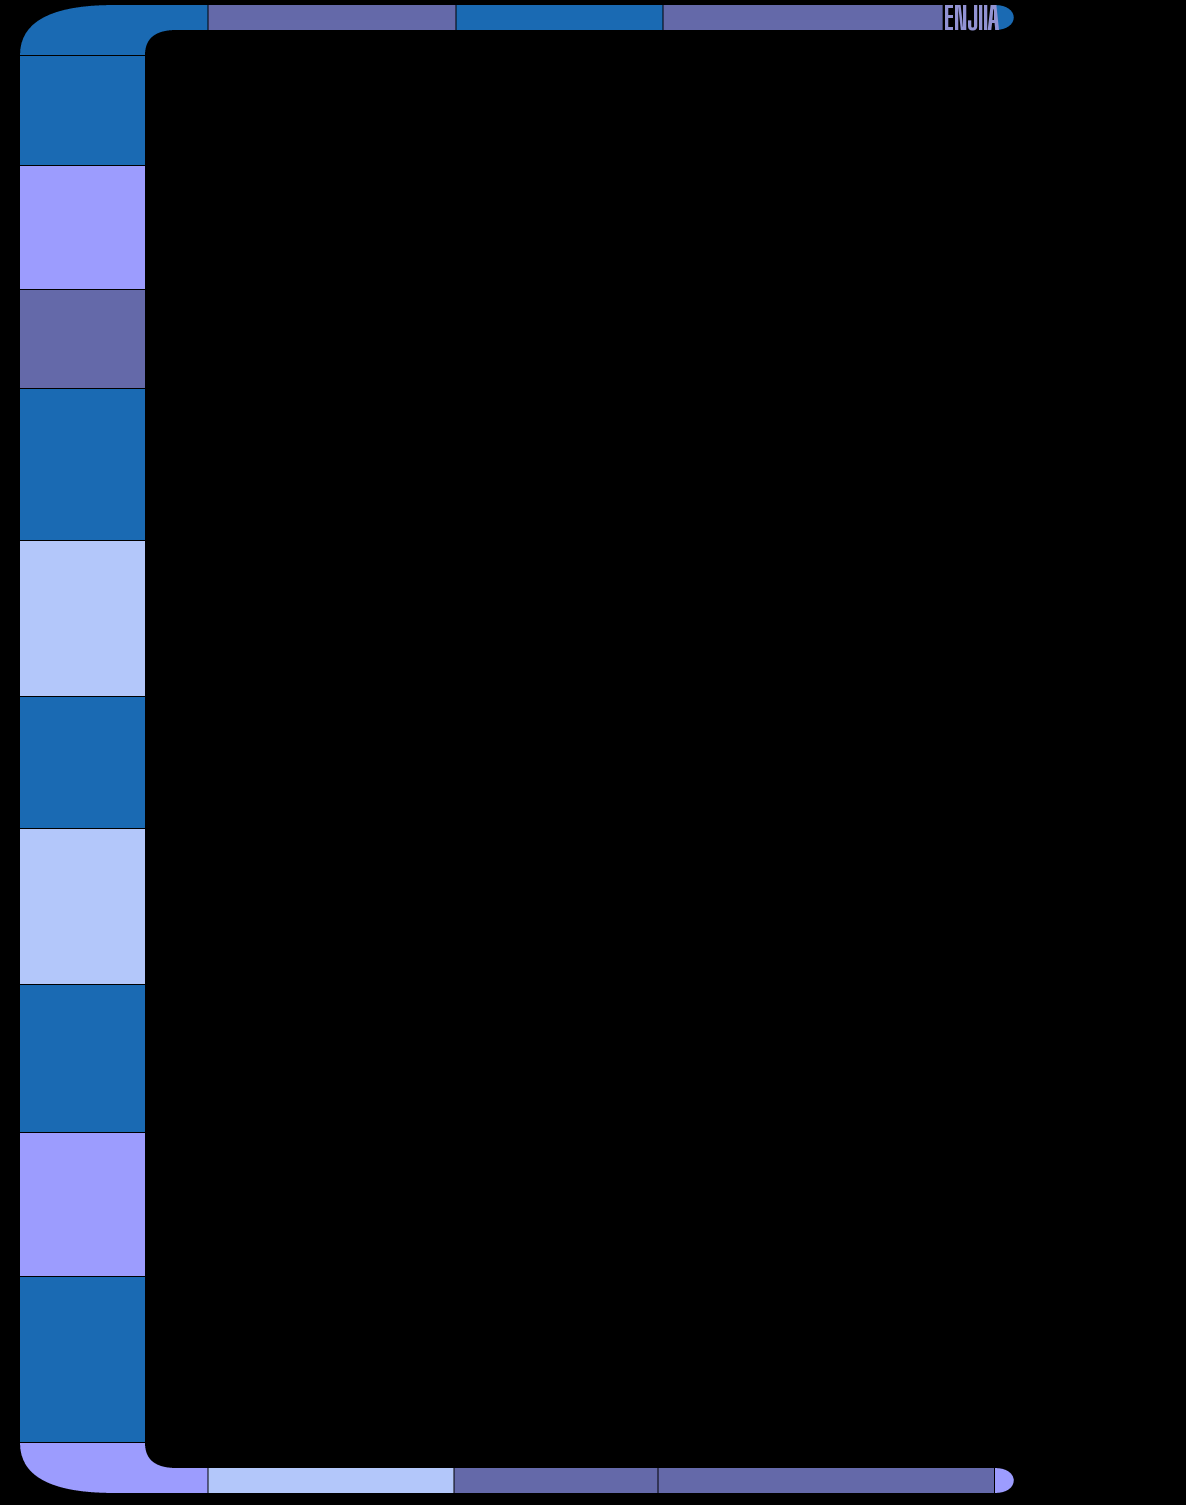
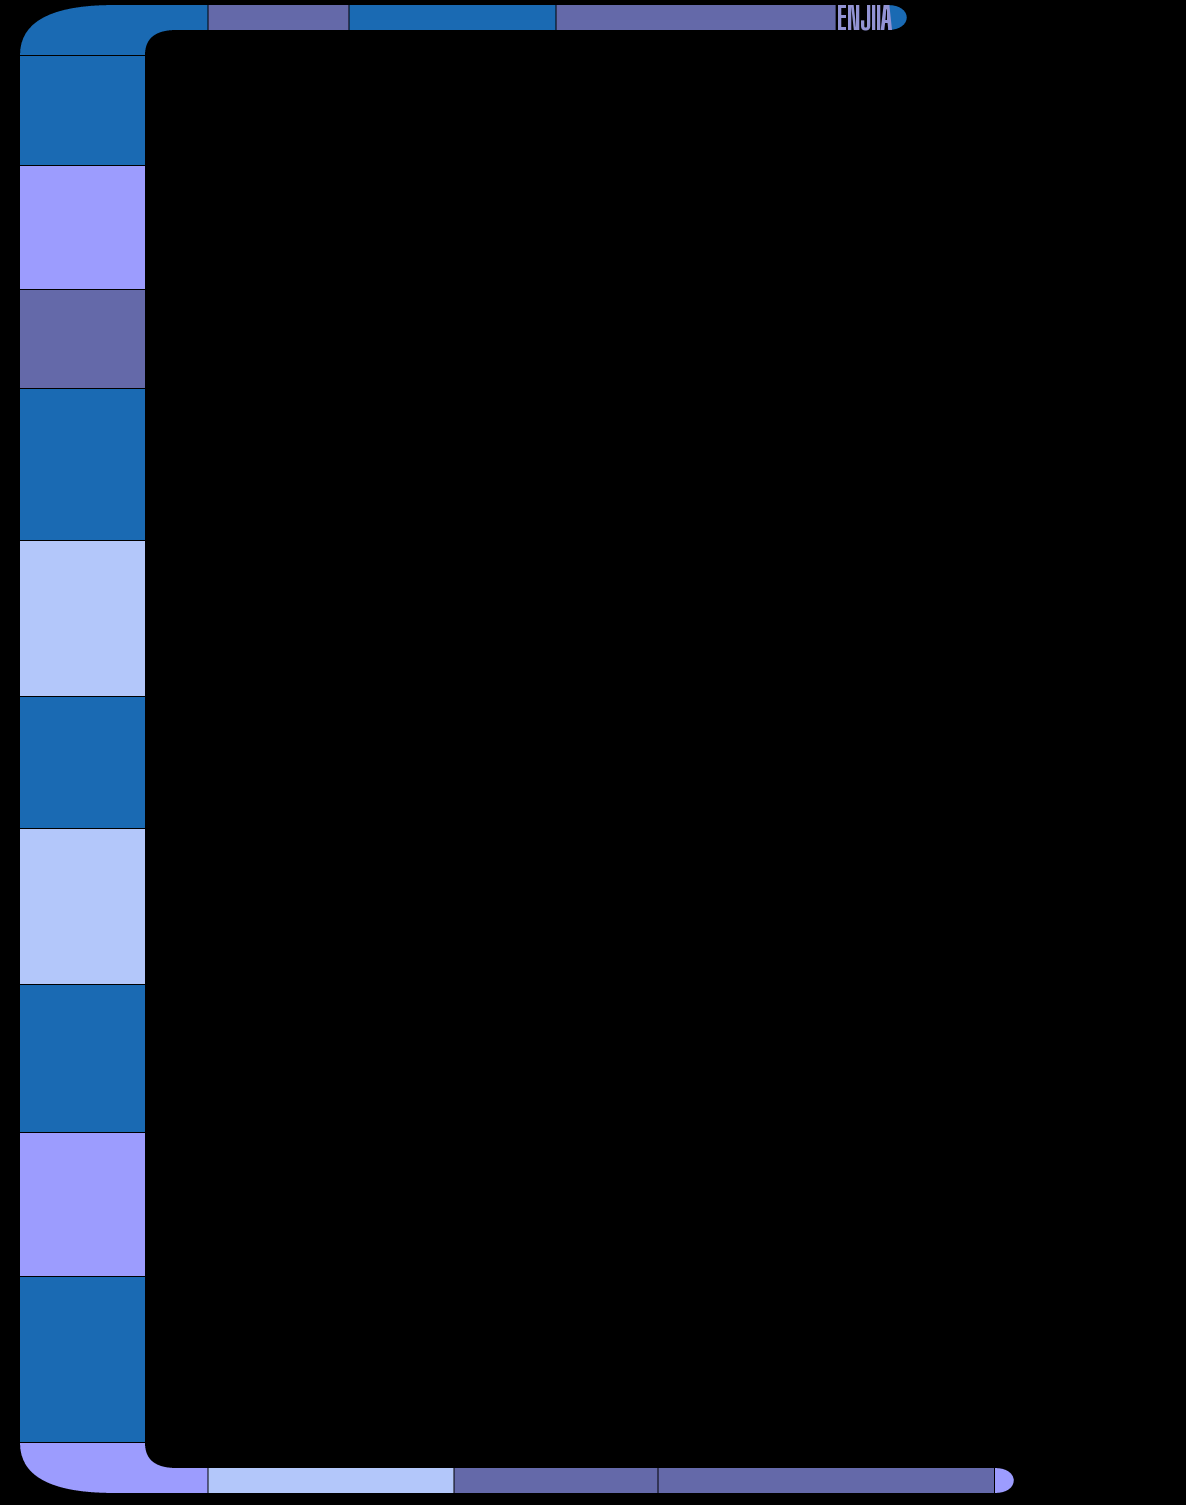
New lcars background

Changed region(s): [[0.6863, 0.0, 0.8735, 0.0312], [0.2808, 0.0, 0.4056, 0.0312], [0.468, 0.0, 0.5616, 0.0312]]

diff --git a/django/homeauto/static/admin/css/mansour.css b/django/homeauto/static/admin/css/mansour.css
@@ -23,9 +23,9 @@ body {
 
 #lcars_command {
    position: absolute;
-   font-size: 120%;
+   font-size: 100%;
    color: #fff;
-   top: -15px;
+   top: -10px;
    left: 220px;
    border: 20px, solid, transparent;
 }
@@ -35,7 +35,7 @@ body {
    font-size: 80%;
    color: #fff;
    top: -5px;
-   left: 500px;
+   left: 400px;
    border: 20px, solid, transparent;
 }
 
